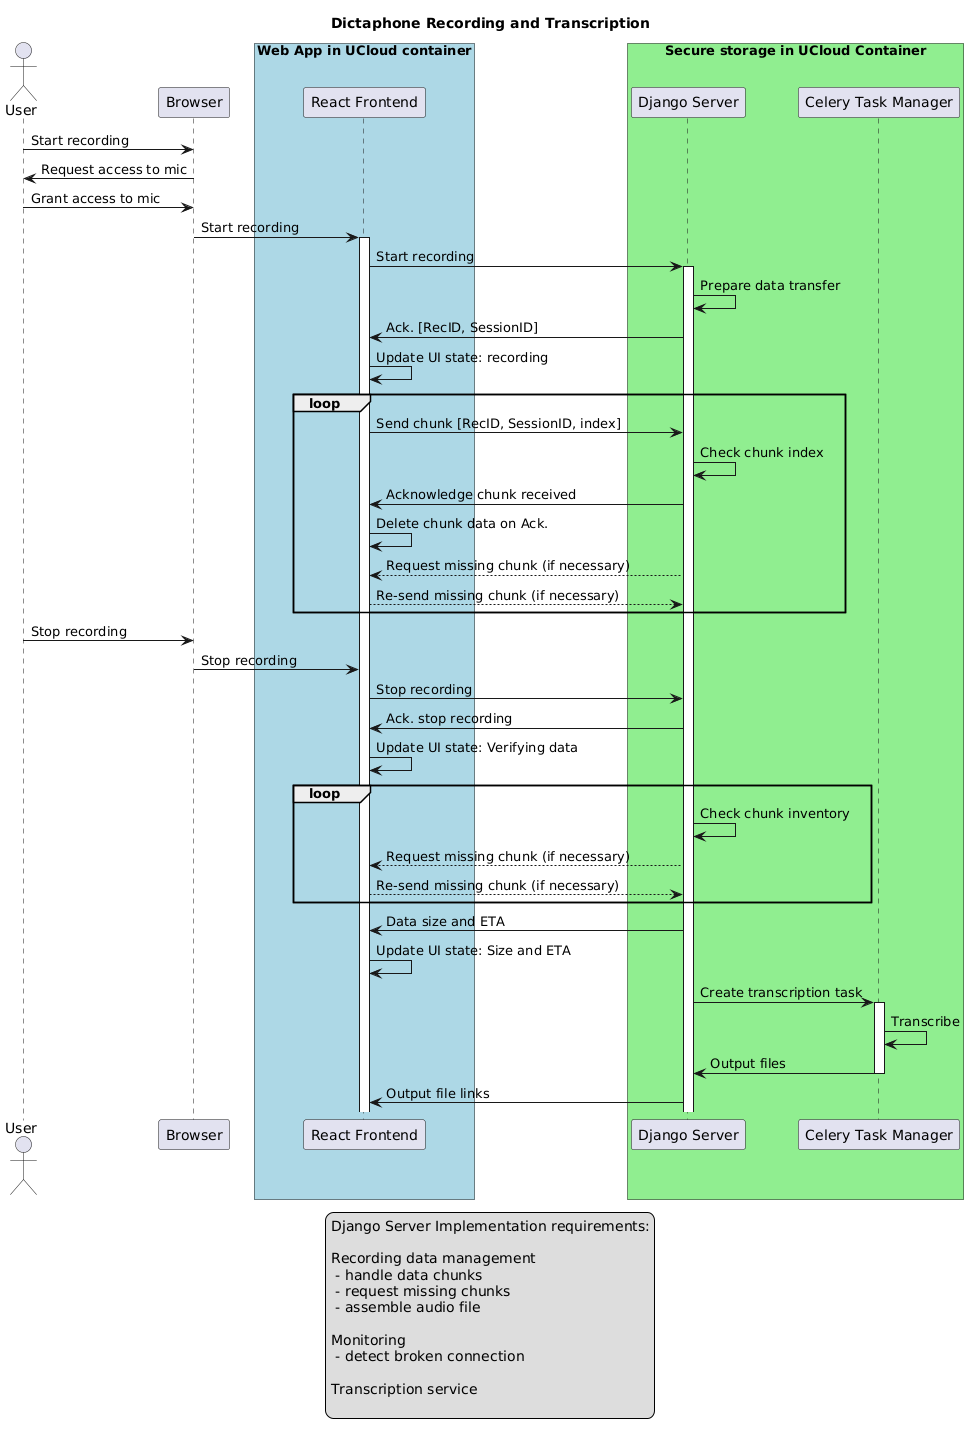
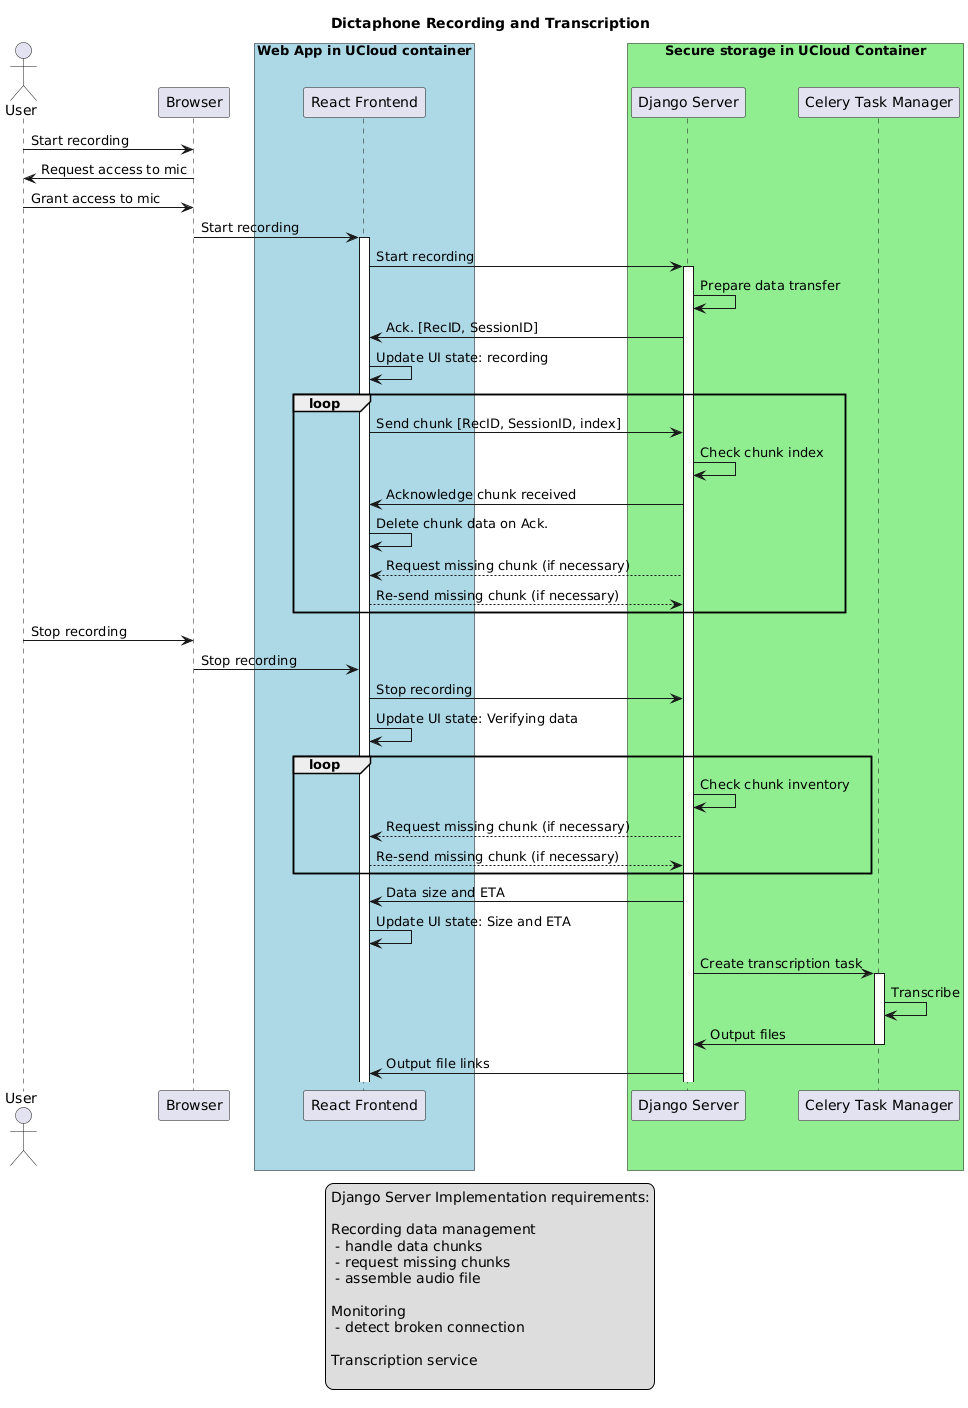
Created recording finalization logic.

diff --git a/frontend/src/App.jsx b/frontend/src/App.jsx
@@ -14,6 +14,9 @@ const App = () => {
     const [modelSize, setModelSize] = useState(getInitialString("modelSize", "large-v3"))
     const [language, setLanguage] = useState(getInitialString("language", "auto"))
     const [recording, setRecording] = useState(false);
+    const chunkIndexRef = useRef(0);
+    const [finalizing, setFinalizing] = useState(false);
+    const finalizingRef = useRef(finalizing);
     const recordingRef = useRef(recording);
     const [mediaRecorder, setMediaRecorder] = useState(null);
     const [mediaStream, setMediaStream] = useState(null);
@@ -57,11 +60,16 @@ const App = () => {
         };
     }, []);
 
+    // Keep the ref updated with the latest finalizing value
+    useEffect(() => {
+        finalizingRef.current = finalizing;
+    }, [finalizing]);
+
     const receiveMessage = async (message) => {
         // client receives three types of messages
         // 1) acknowledgments: this can be "ack_start_recording", "ack_stop_recording", "recording_complete" or "ack_chunk"
-        // 2) data_request: request a missing data chunk, "request_chunk"
-        // 3) output_files: transcribed files, "deliver_output"
+        // 2) data request: request a missing data chunk, "request_chunk"
+        // 3) output files: transcribed files, "transcribed_file"
         try {
             const data = JSON.parse(message.data);
             if (data.message_type) {
@@ -77,9 +85,6 @@ const App = () => {
                             console.debug("No recording id returned.");
                         }
                         break;
-                    case "ack_stop_recording":
-                        // handle stop recording acknowledgment
-                        break;
                     case "ack_chunk":
                         // handle chunk acknowledgment
                         // TODO:
@@ -90,14 +95,21 @@ const App = () => {
                         break;
                     case "recording_complete":
                         // recording is verified to be complete from server (no missing chunks)
+                        // get the file size and ETA, update state to allow new recording
                         // TODO: list of recordingIds? activeRecordingId?
+                        console.debug("Recording complete received from server.")
+                        if (data.path != null && data.size != null) {
+                            console.debug("File path: " + data.path);
+                            console.debug("File size: " + data.size);
+                        }
                         setRecordingId(null);
+                        setFinalizing(false);
                         break;
                     case "request_chunk":
                         // handle data request for missing chunk
                         // TODO:
                         break;
-                    case "deliver_output":
+                    case "transcribed_file":
                         // handle transcribed file links
                         // TODO:
                         break;
@@ -149,17 +161,6 @@ const App = () => {
             console.error("WebSocket is not open or not initialized.");
         }
     };
-
-    const sendMessage = () => {
-        socket.send(JSON.stringify({
-            'type': "control_message",
-            'message': "start_recording"
-        }))
-        socket.send(JSON.stringify({
-            'type': "acknowledgement",
-            'chunk_index': 0
-        }))
-    }
 
     const createChunkHeader = (recordingId, chunkIndex) => {
         const header = new ArrayBuffer(8);
@@ -217,7 +218,7 @@ const App = () => {
         setInitiateRecordingFlag(true);
         sendControlMessage("start_recording", sections[currentSection].title);
         // TODO: do I need anything here to show to the user this is being set up? Maybe a spinner on the button. Or disable the start button, while wait with enabling the stop button (this already happens).
-        // TODO: maybe not (since it happens very fast) - maybe just errorhandling in case it takes to long or fails, will this be handle by general error handling when the serer is not responding?
+        // TODO: maybe not (since it happens very fast) - maybe just errorhandling in case it takes too long or fails, will this be handle by general error handling when the serer is not responding?
     }
 
     const startRecording = async (index, updatedRecordingId) => {
@@ -245,12 +246,12 @@ const App = () => {
         setInitiateRecordingFlag(false);
         setRecording(true);
 
-        let chunkIndex = 0;
+        chunkIndexRef.current = 0; // Reset chunk index for new recording
         mediaRecorderInstance.ondataavailable = (event) => {
             if (event.data.size > 0) {
                 console.debug("Sending binary data to backend.")
                 // 1. Create header
-                const header = createChunkHeader(updatedRecordingId, chunkIndex);
+                const header = createChunkHeader(updatedRecordingId, chunkIndexRef.current);
                 // 2. Read audio chunk as ArrayBuffer and concatenate
                 event.data.arrayBuffer().then(dataBuffer => {
                     // 3. Concatenate header and data
@@ -261,12 +262,16 @@ const App = () => {
                     // 4. Send through WebSocket
                     sendBinaryData(combined.buffer);
                 });
-                chunkIndex += 1;
+                chunkIndexRef.current += 1;
             }
         };
 
         mediaRecorderInstance.onstop = async () => {
-            console.debug("Media recorder onstop().");
+            console.debug("Media recorder onstop() event fired. All data chunks have been generated.");
+            // the recorder is fully stopped and the last chunk has been sent,
+            // notify the server that the recording is finished from the client side.
+            console.debug(`Sending stop_recording control message with total chunks: ${chunkIndexRef.current}`);
+            sendControlMessage("stop_recording", chunkIndexRef.current);
         };
 
         const dataArray = new Uint8Array(analyserInstance.frequencyBinCount);
@@ -299,26 +304,25 @@ const App = () => {
         updatedSections[index].titleLocked = true;
         setSections(updatedSections);
         setRecording(false);
+        setFinalizing(true);
         if (updatedSections[index].animationFrameId) {
             console.debug("Stopping the animation frame...");
             cancelAnimationFrame(updatedSections[index].animationFrameId);
         }
         if (mediaRecorder && mediaRecorder.state !== "inactive") {
             console.debug("Stopping the recording...");
-            mediaRecorder.stop(); // Stop the MediaRecorder
+            mediaRecorder.stop();
         } else {
             console.debug("MediaRecorder is not active or already stopped.");
         }
         if (analyser) {
             console.debug("Stopping the analyser...")
-            analyser.disconnect()
+            analyser.disconnect();
         }
         if (mediaStream) {
             console.debug("Stopping the stream...");
             mediaStream.getTracks().forEach(track => track.stop());
         }
-        console.debug("Stopped recording, sending control message.");
-        sendControlMessage("stop_recording", null)
     };
 
     const formatDuration = (seconds) => {
@@ -365,71 +369,6 @@ const App = () => {
             console.debug("Request ids after remove: " + updatedRequestIds);
             return updatedRequestIds;
         });
-    };
-
-    // Function to poll the server for transcription texts
-    const pollTranscriptions = () => {
-        // TODO: implement functionality to ensure the transcription text chunks are shown in correct order (use requestId -> increasing number)
-        console.debug("Running poll method with requestIds: " + requestIdsRef.current)
-        if (requestIdsRef.current.length > 0) {
-            const requestIdJson = [];
-            const formData = new FormData();
-            for (const requestId of requestIdsRef.current) {
-                requestIdJson.push({
-                    "request_id": requestId
-                })
-            }
-            formData.append('request_ids', JSON.stringify(requestIdJson))
-            console.debug("Generated request id JSON: " + requestIdJson)
-
-            fetch(`http://localhost:8000/get-transcriptions/`, {
-                method: "POST",
-                credentials: "include",
-                headers: {
-                    "X-CSRFToken": csrfToken,
-                },
-                body: formData,
-            })
-                .then(response => response.json())
-                .then(data => {
-                    // debug logging the data returned from the server
-                    console.debug('Response data: ', data.transcriptions);
-                    if (data.transcriptions) {
-                        for (const transcription of data.transcriptions) {
-                            if (transcription && transcription.transcription_text) {
-                                if (transcription.transcription_text === "SILENT_AUDIO_CHUNK") {
-                                    // the audio was detected as silent in the backend
-                                    console.debug("Silent audio chunk for requestId: " + transcription.request_id);
-                                } else if (transcription.transcription_confidence && isBelowConfidenceThreshold(transcription.transcription_confidence)) {
-                                    // the confidence is too low and most likely hallucination
-                                    console.debug("Hallucination detected in audio chunk.")
-                                    if (transcription.transcription_file_name) {
-                                        let text = "Inaudible sound - file name: " + transcription.transcription_file_name;
-                                        setTranscriptions((prev) => [...prev, text]);
-                                    }
-                                } else {
-                                    // the transcription text is okay
-                                    console.debug("Setting transcription text for requestId: " + transcription.request_id);
-                                    setTranscriptions((prev) => [...prev, transcription.transcription_text]);
-                                }
-                                // Remove the request ID from the polling list
-                                removeRequestId(transcription.request_id)
-                            } else {
-                                console.debug("Transcription text not ready for requestId: " + transcription.request_id)
-                            }
-                        }
-                    }
-                })
-                .catch(error => {
-                    console.error('Error polling backend:', error);
-                });
-        } else {
-            console.debug("No request ids to send.")
-            if (!recordingRef.current) {
-                console.debug("Not recording, stopping the poll function.")
-                stopPoll();
-            }
-        }
     };
 
     const isParsableAsFloat = (value) => {
@@ -598,12 +537,6 @@ const App = () => {
                             Next
                         </button>
                     </div>
-                </div>
-                <div>
-                    <h2>Test button for testing websockets</h2>
-                    <button className="transcribe-button" onClick={() => sendMessage()}>
-                        Test send message
-                    </button>
                 </div>
             </div>
         </div>

diff --git a/dictaphone/audio_data_consumer.py b/dictaphone/audio_data_consumer.py
@@ -1,13 +1,12 @@
 import json
 import struct
+import asyncio
+
 from channels.generic.websocket import AsyncWebsocketConsumer
-import io
-import shutil
 import threading
 import datetime
 import os
 import re
-import wave
 from django.conf import settings
 
 class AudioChunkManager:
@@ -43,12 +42,29 @@ class AudioChunkManager:
 
             return self.active_recording_id
 
-    def finalize_active_recording(self):
+    def finalize_active_recording(self, total_chunks) -> bool:
         with self.lock:
             print(f"Finalizing recording, ID = {self.active_recording_id}")
-            # TODO:
-            # increment recording_id after completed recording
-            self.active_recording_id = self.active_recording_id + 1
+            recording_valid = True
+
+            # check if all chunks a saved and flushed
+            for x in range(total_chunks):
+                #print(f"checking index = {x}")
+                if x not in self.recordings[self.active_recording_id]['chunks']:
+                    print(f"Requesting resend for chunk with index = {x}")
+                    self.consumer.send_to_client({
+                        'message_type': 'request_chunk',
+                        'chunk_index': x
+                    })
+                    recording_valid = False
+
+            if recording_valid:
+                # increment recording_id after completed recording
+                self.recordings[self.active_recording_id]['status'] = 'finished'
+                self.active_recording_id = self.active_recording_id + 1
+                return True
+            else:
+                return False
 
 
     def add_chunk(self, recording_id, chunk_index, data):
@@ -59,6 +75,9 @@ class AudioChunkManager:
                 raise ValueError(f"Error adding chunk, no such recording ID: {recording_id}!")
             if not self.validate_chunk_index(chunk_index):
                 raise ValueError(f"Error adding chunk, bad chunk index: {chunk_index}!")
+            if self.recordings[recording_id]['status'] == 'finished':
+                print(f"Received chunk for finished recording - recording_id = {recording_id} chunk_index = {chunk_index}")
+                return
 
             index = int(chunk_index)
             new_chunk = {
@@ -125,6 +144,15 @@ class AudioChunkManager:
                 })
                 break
 
+    def get_file_path(self, recording_id) -> str:
+        return self.recordings[recording_id]['recording_file_path']
+
+    def get_file_size(self, recording_id) -> int:
+        return os.path.getsize(self.recordings[recording_id]['recording_file_path'])
+
+    def get_active_recording_id(self) -> int:
+        return self.active_recording_id
+
     def get_dirname(self, title) -> str:
         # Not empty and does not contain any of these: <>:"/\|?* or whitespace at ends
         if bool(title) and not re.search(r'[<>:"/\\|?*\0]', title) and title == title.strip():
@@ -150,7 +178,7 @@ class AudioDataConsumer(AsyncWebsocketConsumer):
         await self.accept()
 
     async def disconnect(self, close_code):
-        # TODO: server disconnect? how to handle?
+        # TODO: looks like this is called if the client disconnects, e.g. if the client browser window is closed
         print("disconnect")
 
     async def receive(self, text_data=None, bytes_data=None):
@@ -182,8 +210,10 @@ class AudioDataConsumer(AsyncWebsocketConsumer):
                         'recording_id': recording_id
                     }))
                 elif data.get("message") == "stop_recording":
-                    # TODO:
-                    pass
+                    total_chunks = data.get("parameter")
+                    print(f"Received stop_recording. Total number of chunks in recording: {total_chunks}")
+                    # Offload the finalization logic to a non-blocking background task
+                    asyncio.create_task(self._handle_finalize_recording(total_chunks))
                 else:
                     print("Unknown control message")
         elif bytes_data is not None:
@@ -197,11 +227,42 @@ class AudioDataConsumer(AsyncWebsocketConsumer):
             print(f"Byte data received - header data - Rec. ID = {recording_id} chunk_index = {chunk_index}")
             # TODO: handle ValueError (add_chunk), logging
             self.chunk_manager.add_chunk(recording_id, chunk_index, audio_data)
-            print("Chunk index before sending ack: " + str(chunk_index))
             await self.send(text_data=json.dumps({
                 'message_type': 'ack_chunk',
                 'chunk_index': chunk_index
             }))
+
+    async def _handle_finalize_recording(self, total_chunks):
+        """
+        This method runs in the background to check for recording completeness
+        without blocking the main receive loop.
+        """
+        recording_id = self.chunk_manager.get_active_recording_id()
+        recording_finalized = False
+        number_of_retries = 10
+        # try to verify file, and request resends if needed
+        # try a number of times, and send an error message if not successful
+        for i in range(number_of_retries):
+            recording_finalized = self.chunk_manager.finalize_active_recording(int(total_chunks))
+            if recording_finalized:
+                print("Recording has been finalized.")
+                break
+            else:
+                print("Recording has not been finalized, sleeping for one second.")
+                await asyncio.sleep(1)
+        if recording_finalized:
+            # send back file info (and ETA for transcription)
+            print("Recording finalized - sending file info to client.")
+            path = self.chunk_manager.get_file_path(recording_id)
+            size = self.chunk_manager.get_file_size(recording_id)
+            await self.send(text_data=json.dumps({
+                'message_type': 'recording_complete',
+                'path': path,
+                'size': size
+            }))
+        else:
+            # TODO: handle error here, send error message to client
+            pass
 
     async def send_to_client(self, json_object):
         await self.send(text_data=json.dumps(json_object))
